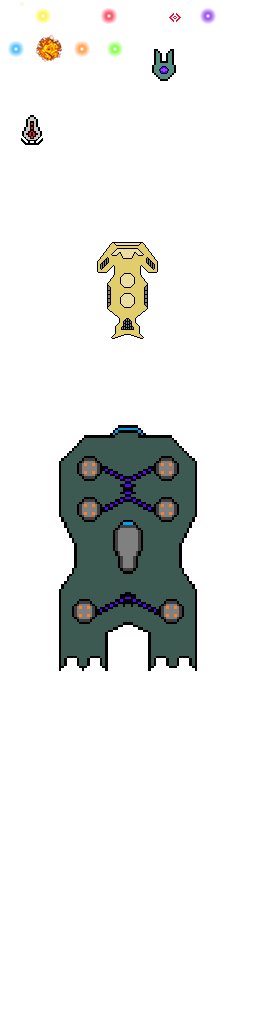
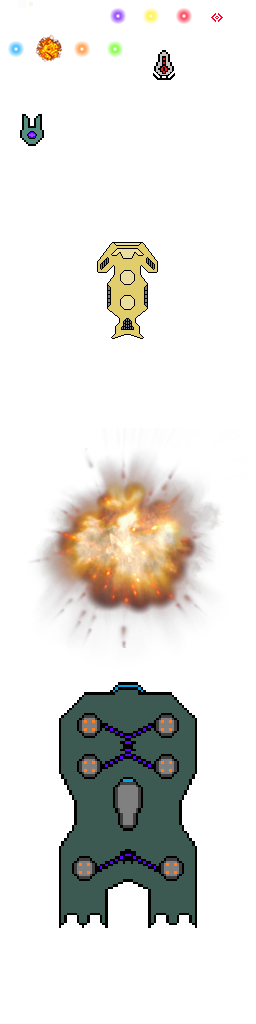
feat: add game state handling (partial)

diff --git a/ShipComponent.cpp b/ShipComponent.cpp
@@ -34,34 +34,37 @@ void ShipComponent::init(float speed, float maxHull, float maxShield, float shie
 void ShipComponent::update(float deltaTime)
 {
     glm::vec2 movement{0, 0};
-
-    if(up)
-    {
-        movement.y++;
-    }
-    if(down)
-    {
-        movement.y--;
-    }
-    if(left)
-    {
-        movement.x--;
-    }
-    if(right)
-    {
-        movement.x++;
-    }
-
     float rotation = 0;
 
-    if(rotateCCW)
+    if(!SpaceShoot::instance->gameEnded)
     {
-        rotation += rotationSpeed;
+        if(up)
+        {
+            movement.y++;
+        }
+        if(down)
+        {
+            movement.y--;
+        }
+        if(left)
+        {
+            movement.x--;
+        }
+        if(right)
+        {
+            movement.x++;
+        }
+
+        if(rotateCCW)
+        {
+            rotation += rotationSpeed;
+        }
+        else if(rotateCW)
+        {
+            rotation -= rotationSpeed;
+        }
     }
-    else if(rotateCW)
-    {
-        rotation -= rotationSpeed;
-    }
+    
 
     glm::vec2 direction{0, 0};
     if(movement.x != 0 || movement.y != 0)
@@ -137,10 +140,9 @@ void ShipComponent::TakeDamage(float amount)
     }
     else
     {
-        if(isPlayer())
+        if(isPlayer() && !SpaceShoot::instance->gameEnded)
         {
             SpaceShoot::instance->camera->shake(40);
-
         }
         hull->removeCapacity(amount);
     }
@@ -153,12 +155,18 @@ void ShipComponent::TakeDamage(float amount)
 
 void ShipComponent::Destroy()
 {
-    gameObject->destroyed = true;
-    gameObject->getComponent<TurretController>()->destroyTurrets();
     if(!isPlayer())
     {
+        gameObject->destroyed = true;
+        gameObject->getComponent<TurretController>()->destroyTurrets();
         SpaceShoot::instance->enemiesKilled++;
         SpaceShoot::instance->currentEnemies--;
+    }
+    else
+    {
+        SpaceShoot::instance->gameEnded = true;
+        gameObject->getComponent<TurretController>()->toggleHideTurrets();
+        spriteComponent->setSprite(SpaceShoot::instance->atlas->get("explosionbig.png"));
     }
 }
 

diff --git a/TurretController.cpp b/TurretController.cpp
@@ -36,6 +36,7 @@ void TurretController::destroyTurrets()
 void TurretController::init(std::vector<glm::vec2> turretOffsets, sre::Sprite turretSprite)
 {
     this->turretOffsets = turretOffsets;
+    this->turretSprite = turretSprite;
     for(int i = 0; i < turretOffsets.size(); ++i)
     {
         auto turret = SpaceShoot::instance->createGameObject();
@@ -89,12 +90,28 @@ void TurretController::update(float deltaTime)
 void TurretController::radar(float range)
 {
     fireState = false;
-    if(target)
+    if(target && !SpaceShoot::instance->gameEnded)
     {
         float currentRange = glm::distance(gameObject->getPosition(), target->getPosition());
         if(currentRange < range)
         {
             fireState = true;
+        }
+    }
+}
+
+void TurretController::toggleHideTurrets()
+{
+    turretsHidden = !turretsHidden;
+    for(std::shared_ptr<GameObject> tc : turrets)
+    {
+        if(turretsHidden)
+        {
+            tc->getComponent<SpriteComponent>()->setSprite(SpaceShoot::instance->atlas->get("empty.png"));
+        }
+        else
+        {
+            tc->getComponent<SpriteComponent>()->setSprite(turretSprite);
         }
     }
 }
@@ -107,7 +124,7 @@ bool TurretController::onMouse(SDL_Event& event)
         {
             if(event.button.type == SDL_MOUSEBUTTONDOWN)
             {
-                fireState = true;
+                fireState = true && !SpaceShoot::instance->gameEnded;
             }
             else if(event.button.type == SDL_MOUSEBUTTONUP)
             {

diff --git a/SpaceShoot.hpp b/SpaceShoot.hpp
@@ -33,9 +33,10 @@ public:
 
     static int PLAYER_GROUP;
     static int ENEMY_GROUP;
-    int enemiesKilled = 0;
-    int currentEnemies = 0;
     const int maxEnemies = 10;
+
+    bool gameEnded = false;
+
 private:
     glm::vec4 bgColor;
     sre::SDLRenderer renderer;
@@ -59,6 +60,11 @@ private:
     b2World *world = nullptr;
     Box2DDebugDraw debugDraw;
     bool isDebugDraw = false;
+    int currentEnemies = 0;
+    int enemiesKilled = 0;
+    float elapsedTime = 0;
+
     friend class PhysicsComponent;
+    friend class ShipComponent;
     friend class BulletComponent;
 };

diff --git a/SpaceShoot.cpp b/SpaceShoot.cpp
@@ -278,7 +278,8 @@ void SpaceShoot::SpawnEnemies()
         auto junkSprite = junk->addComponent<SpriteComponent>();
         glm::vec2 pos = glm::vec2((rand() % (int)gameBounds) - gameBounds / 2, (rand() % (int)gameBounds) - gameBounds / 2);
         junk->setPosition(pos);
-        junkShip->init(10, 1, 0, 0, 5000, 50);
+        junkShip->init(100, 2000, 100, 10, 5000, 50);
+        //junkShip->init(10, 1, 1, 1, 5000, 50);
 
         junkSprite->setSprite(atlas->get("enemyspaceship.png"));
         junkShip->getPhysicsComponent()->initBox(b2_dynamicBody, {0.3, 0.51}, junk->getPosition() / physicsScale, 1, ENEMY_GROUP);
@@ -299,7 +300,10 @@ void SpaceShoot::SpawnPlayer()
     auto playerSprite = player->addComponent<SpriteComponent>();
     auto spaceShip = player->addComponent<ShipComponent>();
     spaceShip->setIsPlayer(true);
-    spaceShip->init(100, 2000, 100, 10, 5000, 50);
+
+    //spaceShip->init(100, 2000, 100, 10, 5000, 50);
+    spaceShip->init(10, 1, 1, 1, 5000, 50);
+
     spaceShip->getPhysicsComponent()->initBox(b2_dynamicBody, {0.63, 1.15}, player->getPosition() / physicsScale, 1,
         PLAYER_GROUP);
     auto sprite = atlas->get("playerspaceship.png");

diff --git a/TurretController.hpp b/TurretController.hpp
@@ -17,6 +17,7 @@ public:
 
     void update(float deltaTime) override;
     void radar(float range);
+    void toggleHideTurrets();
 
     bool onMouse(SDL_Event& event) override;
 
@@ -32,4 +33,7 @@ private:
     std::vector<glm::vec2> turretOffsets;
 
     glm::vec2 mousePos;
+
+    sre::Sprite turretSprite;
+    bool turretsHidden = false;
 };